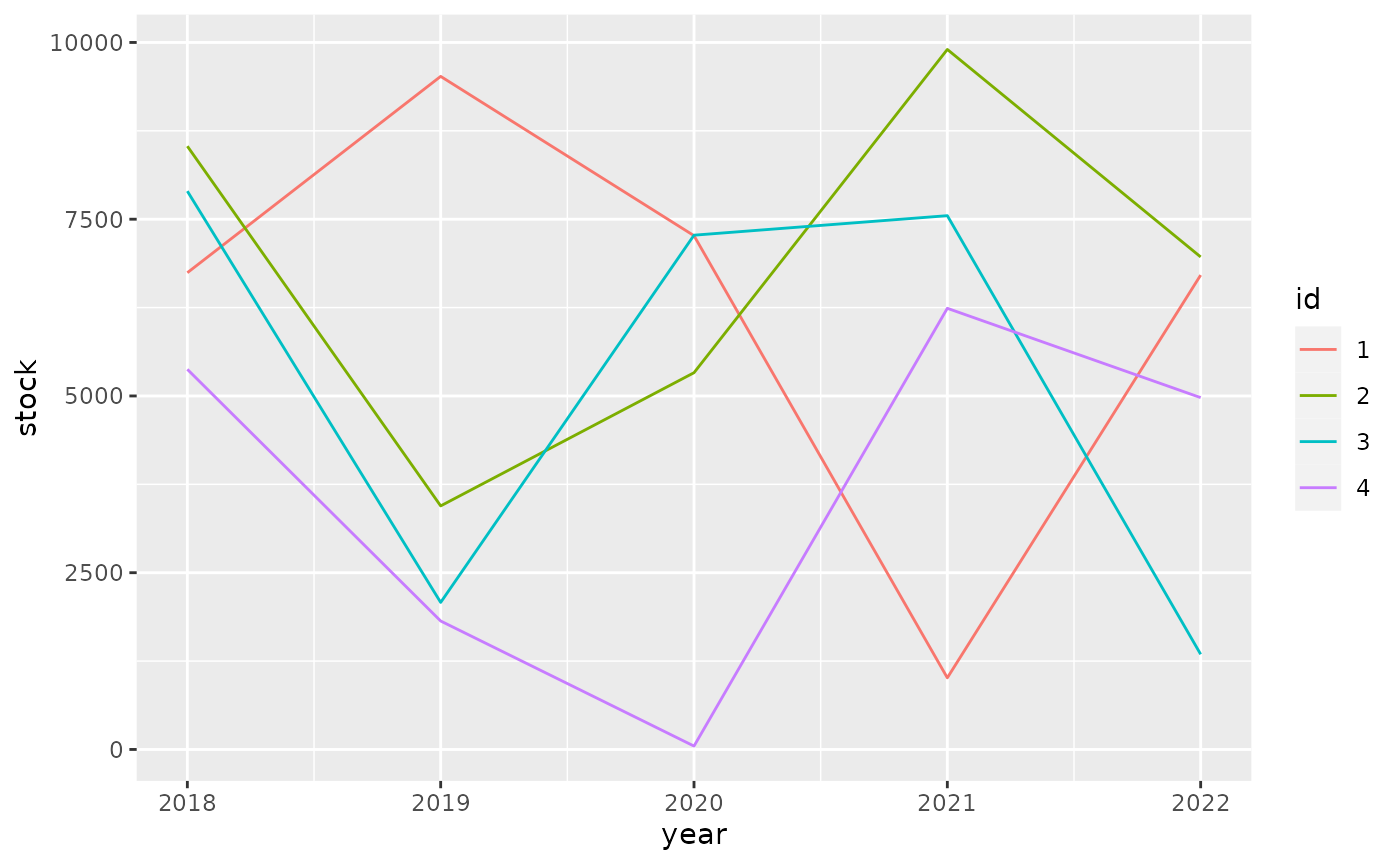
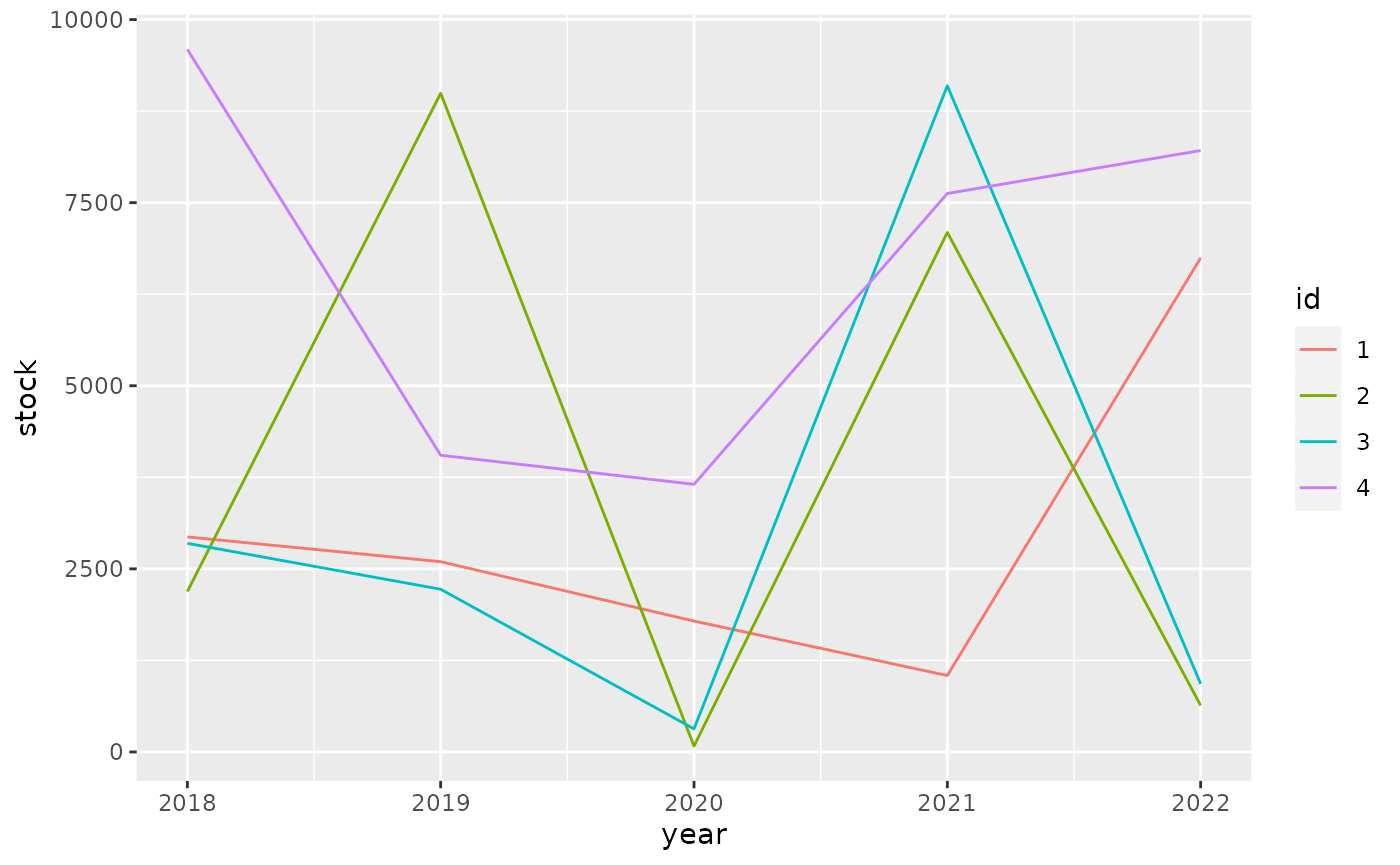
Built site for tibble: 3.1.6.9000@baab6c2

diff --git a/dev/articles/formats.html b/dev/articles/formats.html
@@ -227,10 +227,10 @@
 <span class="co">#&gt; <span style="color: #949494;"># A tibble: 4 × 6</span></span>
 <span class="co">#&gt;   id       `2018`    `2019`    `2020`    `2021`    `2022`</span>
 <span class="co">#&gt;   <span style="color: #949494; font-style: italic;">&lt;fct&gt;</span> <span style="color: #949494; font-style: italic;">&lt;dbl:fmt&gt;</span> <span style="color: #949494; font-style: italic;">&lt;dbl:fmt&gt;</span> <span style="color: #949494; font-style: italic;">&lt;dbl:fmt&gt;</span> <span style="color: #949494; font-style: italic;">&lt;dbl:fmt&gt;</span> <span style="color: #949494; font-style: italic;">&lt;dbl:fmt&gt;</span></span>
-<span class="co">#&gt; <span style="color: #BCBCBC;">1</span> 1     $6,743.00 $9,520.10 $7,267.17 $1,013.33 $6,709.69</span>
-<span class="co">#&gt; <span style="color: #BCBCBC;">2</span> 2     $8,532.84 $3,444.97 $5,328.85 $9,901.18 $6,966.34</span>
-<span class="co">#&gt; <span style="color: #BCBCBC;">3</span> 3     $7,896.96 $2,079.90 $7,273.98 $7,550.12 $1,345.95</span>
-<span class="co">#&gt; <span style="color: #BCBCBC;">4</span> 4     $5,376.68 $1,816.87    $47.73 $6,239.70 $4,976.47</span></code></pre></div>
+<span class="co">#&gt; <span style="color: #BCBCBC;">1</span> 1     $2,935.54 $2,597.60 $1,786.90 $1,043.11 $6,745.74</span>
+<span class="co">#&gt; <span style="color: #BCBCBC;">2</span> 2     $2,190.04 $8,993.71    $80.03 $7,093.17   $634.62</span>
+<span class="co">#&gt; <span style="color: #BCBCBC;">3</span> 3     $2,848.54 $2,221.39   $314.79 $9,095.66   $929.98</span>
+<span class="co">#&gt; <span style="color: #BCBCBC;">4</span> 4     $9,592.13 $4,051.21 $3,654.49 $7,625.04 $8,211.96</span></code></pre></div>
 <p>For ggplot2 we need to do <a href="https://github.com/tidyverse/ggplot2/pull/4065" class="external-link">some work</a> to show apply the formatting to the scales.</p>
 <div class="sourceCode" id="cb6"><pre class="downlit sourceCode r">
 <code class="sourceCode R"><span class="kw"><a href="https://rdrr.io/r/base/library.html" class="external-link">library</a></span><span class="op">(</span><span class="va"><a href="https://ggplot2.tidyverse.org" class="external-link">ggplot2</a></span><span class="op">)</span>
@@ -241,10 +241,10 @@
   <span class="fu"><a href="https://ggplot2.tidyverse.org/reference/geom_path.html" class="external-link">geom_line</a></span><span class="op">(</span><span class="op">)</span></code></pre></div>
 <p><img src="formats_files/figure-html/unnamed-chunk-7-1.png" width="700"></p>
 <p>It pays off to specify formatting very early in the process. The diagram below shows the principal stages of data analysis and exploration from “R for data science”.</p>
-<div id="htmlwidget-3fa1b212fc816d40b117" style="width:700px;height:432.632880098888px;" class="DiagrammeR html-widget"></div>
-<script type="application/json" data-for="htmlwidget-3fa1b212fc816d40b117">{"x":{"diagram":"graph TD\n  Import --> Tidy\n  Tidy --> Transform\n  Transform --> Visualize\n  Visualize --> Communicate\n  Visualize --> Model\n  Model -.-> Transform"},"evals":[],"jsHooks":[]}</script><p>The subsequent diagram adds data formats, communication options, and explicit data formatting. The original r4ds transitions are highlighted in bold. There are two principal options where to apply formatting for results: right before communicating them, or right after importing.</p>
-<div id="htmlwidget-841244e2fd4c1ffc5135" style="width:700px;height:432.632880098888px;" class="DiagrammeR html-widget"></div>
-<script type="application/json" data-for="htmlwidget-841244e2fd4c1ffc5135">{"x":{"diagram":"graph TD\n  .csv --> Import\n  API --> Import\n  DBI --> Import\n  dbplyr --> Import\n  Import -.-> Format[Format for analysis]\n  Format -.-> Tidy\n\n  subgraph r4ds\n  Import ==> Tidy\n  Tidy ==> Transform\n  Transform ==> Visualize\n  Visualize ==> Model\n  Model -.-> Transform\n  Visualize ==> Communicate\n  end\n\n  Visualize -.-> FormatComm[Format for communication]\n  FormatComm -.-> Communicate\n\n  FormatComm -- Apply formatting early --> Format\n\n  dbplyr -.-> Tidy\n  dbplyr -.-> Transform\n  dbplyr -.-> Visualize\n\n  Communicate --> gt\n  Communicate --> ggplot2\n  Communicate --> DT\n  Communicate --> plotly"},"evals":[],"jsHooks":[]}</script><p>Applying formatting early in the process gives the added benefit of showing the data in a useful format during the “Tidy”, “Transform”, and “Visualize” stages. For this to be useful, we need to ensure that the formatting options applied early:</p>
+<div id="htmlwidget-8cbad39ae611f12a12c0" style="width:700px;height:432.632880098888px;" class="DiagrammeR html-widget"></div>
+<script type="application/json" data-for="htmlwidget-8cbad39ae611f12a12c0">{"x":{"diagram":"graph TD\n  Import --> Tidy\n  Tidy --> Transform\n  Transform --> Visualize\n  Visualize --> Communicate\n  Visualize --> Model\n  Model -.-> Transform"},"evals":[],"jsHooks":[]}</script><p>The subsequent diagram adds data formats, communication options, and explicit data formatting. The original r4ds transitions are highlighted in bold. There are two principal options where to apply formatting for results: right before communicating them, or right after importing.</p>
+<div id="htmlwidget-938b1422c816b74cc6f9" style="width:700px;height:432.632880098888px;" class="DiagrammeR html-widget"></div>
+<script type="application/json" data-for="htmlwidget-938b1422c816b74cc6f9">{"x":{"diagram":"graph TD\n  .csv --> Import\n  API --> Import\n  DBI --> Import\n  dbplyr --> Import\n  Import -.-> Format[Format for analysis]\n  Format -.-> Tidy\n\n  subgraph r4ds\n  Import ==> Tidy\n  Tidy ==> Transform\n  Transform ==> Visualize\n  Visualize ==> Model\n  Model -.-> Transform\n  Visualize ==> Communicate\n  end\n\n  Visualize -.-> FormatComm[Format for communication]\n  FormatComm -.-> Communicate\n\n  FormatComm -- Apply formatting early --> Format\n\n  dbplyr -.-> Tidy\n  dbplyr -.-> Transform\n  dbplyr -.-> Visualize\n\n  Communicate --> gt\n  Communicate --> ggplot2\n  Communicate --> DT\n  Communicate --> plotly"},"evals":[],"jsHooks":[]}</script><p>Applying formatting early in the process gives the added benefit of showing the data in a useful format during the “Tidy”, “Transform”, and “Visualize” stages. For this to be useful, we need to ensure that the formatting options applied early:</p>
 <ul>
 <li>give a good user experience for analysis
 <ul>

diff --git a/dev/articles/types.html b/dev/articles/types.html
@@ -357,8 +357,8 @@
 <span class="co">#&gt; $ `named list`  <span style="color: #949494; font-style: italic;">&lt;named list&gt;</span> 1</span>
 <span class="co">#&gt; $ factor        <span style="color: #949494; font-style: italic;">&lt;fct&gt;</span> A</span>
 <span class="co">#&gt; $ ordered       <span style="color: #949494; font-style: italic;">&lt;ord&gt;</span> a</span>
-<span class="co">#&gt; $ Date          <span style="color: #949494; font-style: italic;">&lt;date&gt;</span> 2021-12-07</span>
-<span class="co">#&gt; $ POSIXt        <span style="color: #949494; font-style: italic;">&lt;dttm&gt;</span> 2021-12-07 05:45:30</span>
+<span class="co">#&gt; $ Date          <span style="color: #949494; font-style: italic;">&lt;date&gt;</span> 2021-12-11</span>
+<span class="co">#&gt; $ POSIXt        <span style="color: #949494; font-style: italic;">&lt;dttm&gt;</span> 2021-12-11 04:51:25</span>
 <span class="co">#&gt; $ difftime      <span style="color: #949494; font-style: italic;">&lt;drtn&gt;</span> 1 secs</span>
 <span class="co">#&gt; $ hms           <span style="color: #949494; font-style: italic;">&lt;time&gt;</span> 00:00:01</span>
 <span class="co">#&gt; $ integer64     <span style="color: #949494; font-style: italic;">&lt;int64&gt;</span> 10000000000</span>
@@ -394,7 +394,7 @@
 <span class="co">#&gt;             "sym"</span>
 <span class="co">#&gt;         }, typeof(x))</span>
 <span class="co">#&gt; }</span>
-<span class="co">#&gt; &lt;bytecode: 0x55b8f68447e8&gt;</span>
+<span class="co">#&gt; &lt;bytecode: 0x55c16c2697d8&gt;</span>
 <span class="co">#&gt; &lt;environment: namespace:pillar&gt;</span></code></pre></div>
 </div>
   </div>
